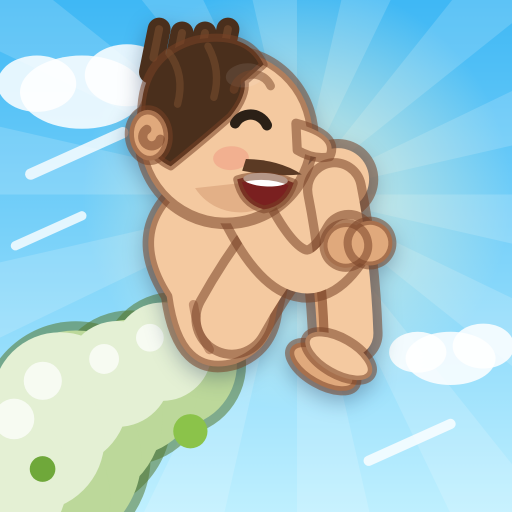
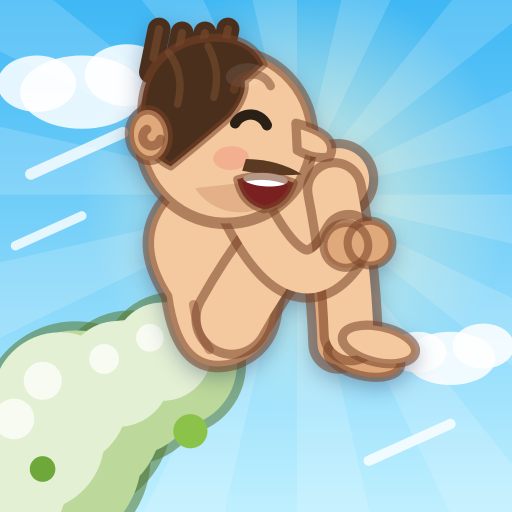
Point Kurt's tucked feet forward (#7)
The foot ellipses were centred behind the ankle, so the toes trailed
backward. Put the heel at the ankle under the shin and angle the toes
forward and down, as in a real cannonball. Icon PNGs regenerated.

Claude-Session: https://claude.ai/code/session_01Xv5vU6vvioL4J4ZmquSQUE

Changed region(s): [[0.5312, 0.625, 0.8438, 0.8125]]

diff --git a/src/kurt.js b/src/kurt.js
@@ -258,8 +258,8 @@ export function drawKurt(ctx, kurt) {
 // Built straight from the reference photos: the body stays upright with
 // a rounded back, the knees are hugged up to chest height so they lead in
 // front of the chin, the shins hang almost straight down from the knees
-// so the feet dangle below the butt with sky showing between the calves
-// and the belly, and the near arm runs down the side of the thigh to a
+// so the feet dangle below the butt, toes forward, with sky showing between
+// the calves and the belly, and the near arm runs down the side of the thigh to a
 // low elbow with the forearm crossing the shin just under the knee,
 // hands clasped on the shin.
 //
@@ -282,7 +282,7 @@ function drawTuckBody(ctx, R, wiggle) {
   // far leg, in shade: a second shin and foot just behind the near leg,
   // so the tuck clearly has both legs hugged up
   drawLimb(ctx, R, FAR_SHIN, SKIN_SHADE);
-  drawFoot(ctx, R, 0.26, 1.04, 0.8, SKIN_SHADE);
+  drawFoot(ctx, R, 0.54, 1.06, 0.5, SKIN_SHADE);
 
   torsoPath(ctx, R);
   ctx.fillStyle = SKIN;
@@ -295,7 +295,7 @@ function drawTuckBody(ctx, R, wiggle) {
   // near leg: thigh hugged up to the chest, shin hanging from the knee
   drawLimb(ctx, R, NEAR_THIGH, SKIN);
   drawLimb(ctx, R, NEAR_SHIN, SKIN);
-  drawFoot(ctx, R, 0.38, 1.0, 0.8, SKIN);
+  drawFoot(ctx, R, 0.66, 1.0, 0.5, SKIN);
 
   // near arm: down the side of the thigh to a low elbow, then the forearm
   // reaches up and forward to grip the shin just below the knee
@@ -346,8 +346,8 @@ function drawClaspedHands(ctx, R, cx, cy) {
   ctx.stroke();
 }
 
-// a foot tucked under the folded leg: heel at the ankle, toes pointing
-// toward the tail so the tuck has a clear trailing edge
+// a foot hanging from the ankle: heel at the back under the shin, toes
+// pointing forward and down the way they do in a real cannonball
 function drawFoot(ctx, R, cx, cy, rot, fill) {
   ctx.fillStyle = fill;
   ctx.beginPath();
